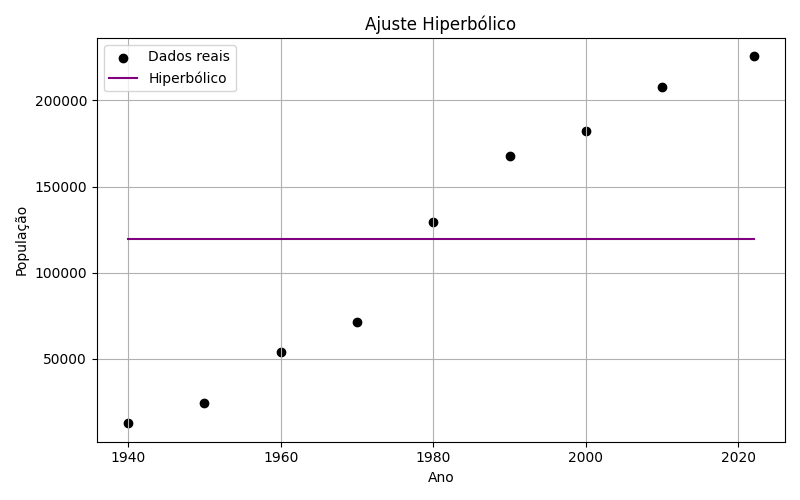
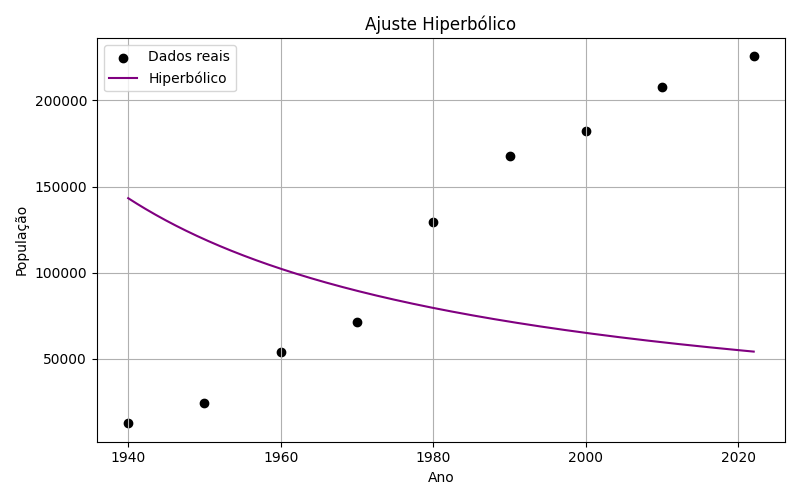
feat: catching non valid models

diff --git a/min_quadrados.py b/min_quadrados.py
@@ -84,9 +84,9 @@ def ajustar_modelos(x, y):
             modelo_hiperbolico,
             x,
             y,
-            p0=(max(y) * 10, 1000),
-            bounds=([0, -1e6], [1e12, 1e6])
-    )
+            p0=(max(y), 1),
+            bounds=([0, 0], [1e12, 50])
+        )
     except RuntimeError:
         print("Falha no ajuste hiperbólico!")
         params_hip = (np.nan, np.nan)
@@ -266,23 +266,38 @@ def salvar_resultados_em_arquivo(poly2, poly3, params_exp, params_hip, params_ge
         f.write('Resultados dos Modelos Ajustados:\n\n')
         f.write('1) Modelo Polinomial Grau 2:\n')
         f.write(f'   Função: \n\t{poly2}\n')
-        f.write(f'   R²: {coeficientes["poly2"]:.4f}\n\n')
+        f.write(f'   R²: {coeficientes["poly2"]:.4f}\n')
+        if coeficientes["poly2"] < 0:
+            f.write('   R² negativo, portanto, modelo não adequado para esses dados\n')
+        f.write('\n')
 
         f.write('2) Modelo Polinomial Grau 3:\n')
         f.write(f'   Função: \n\t{poly3}\n')
-        f.write(f'   R²: {coeficientes["poly3"]:.4f}\n\n')
+        f.write(f'   R²: {coeficientes["poly3"]:.4f}\n')
+        if coeficientes["poly3"] < 0:
+            f.write('   R² negativo, portanto, modelo não adequado para esses dados\n')
+        f.write('\n')
 
         f.write('3) Modelo Exponencial:\n')
         f.write(f'   Função: \n\ty = {params_exp[0]:.2f} * exp({params_exp[1]:.5f} * x)\n')
-        f.write(f'   R²: {coeficientes["exp"]:.4f}\n\n')
+        f.write(f'   R²: {coeficientes["exp"]:.4f}\n')
+        if coeficientes["exp"] < 0:
+            f.write('   R² negativo, portanto, modelo não adequado para esses dados\n')
+        f.write('\n')
 
         f.write('4) Modelo Hiperbólico:\n')
         f.write(f'   Função: \n\ty = {params_hip[0]:.2f} / (x + {params_hip[1]:.5f})\n')
-        f.write(f'   R²: {coeficientes["hip"]:.4f}\n\n')
+        f.write(f'   R²: {coeficientes["hip"]:.4f}\n')
+        if coeficientes["hip"] < 0:
+            f.write('   R² negativo, portanto, modelo não adequado para esses dados\n')
+        f.write('\n')
 
         f.write('5) Modelo Geométrico (Potencial):\n')
         f.write(f'   Função: \n\ty = {params_geo[0]:.2f} * x^{params_geo[1]:.5f}\n')
-        f.write(f'   R²: {coeficientes["geo"]:.4f}\n\n')
+        f.write(f'   R²: {coeficientes["geo"]:.4f}\n')
+        if coeficientes["geo"] < 0:
+            f.write('   R² negativo, portanto, modelo não adequado para esses dados\n')
+        f.write('\n')
 
         f.write(f'Melhor ajuste: {nomes[melhor_modelo]} (R² = {maior_r2:.4f})\n')
         f.write(f'Estimativa para o ano de 2030 pelo melhor modelo ({nomes[melhor_modelo]}): {estimativa:.2f}\n')
